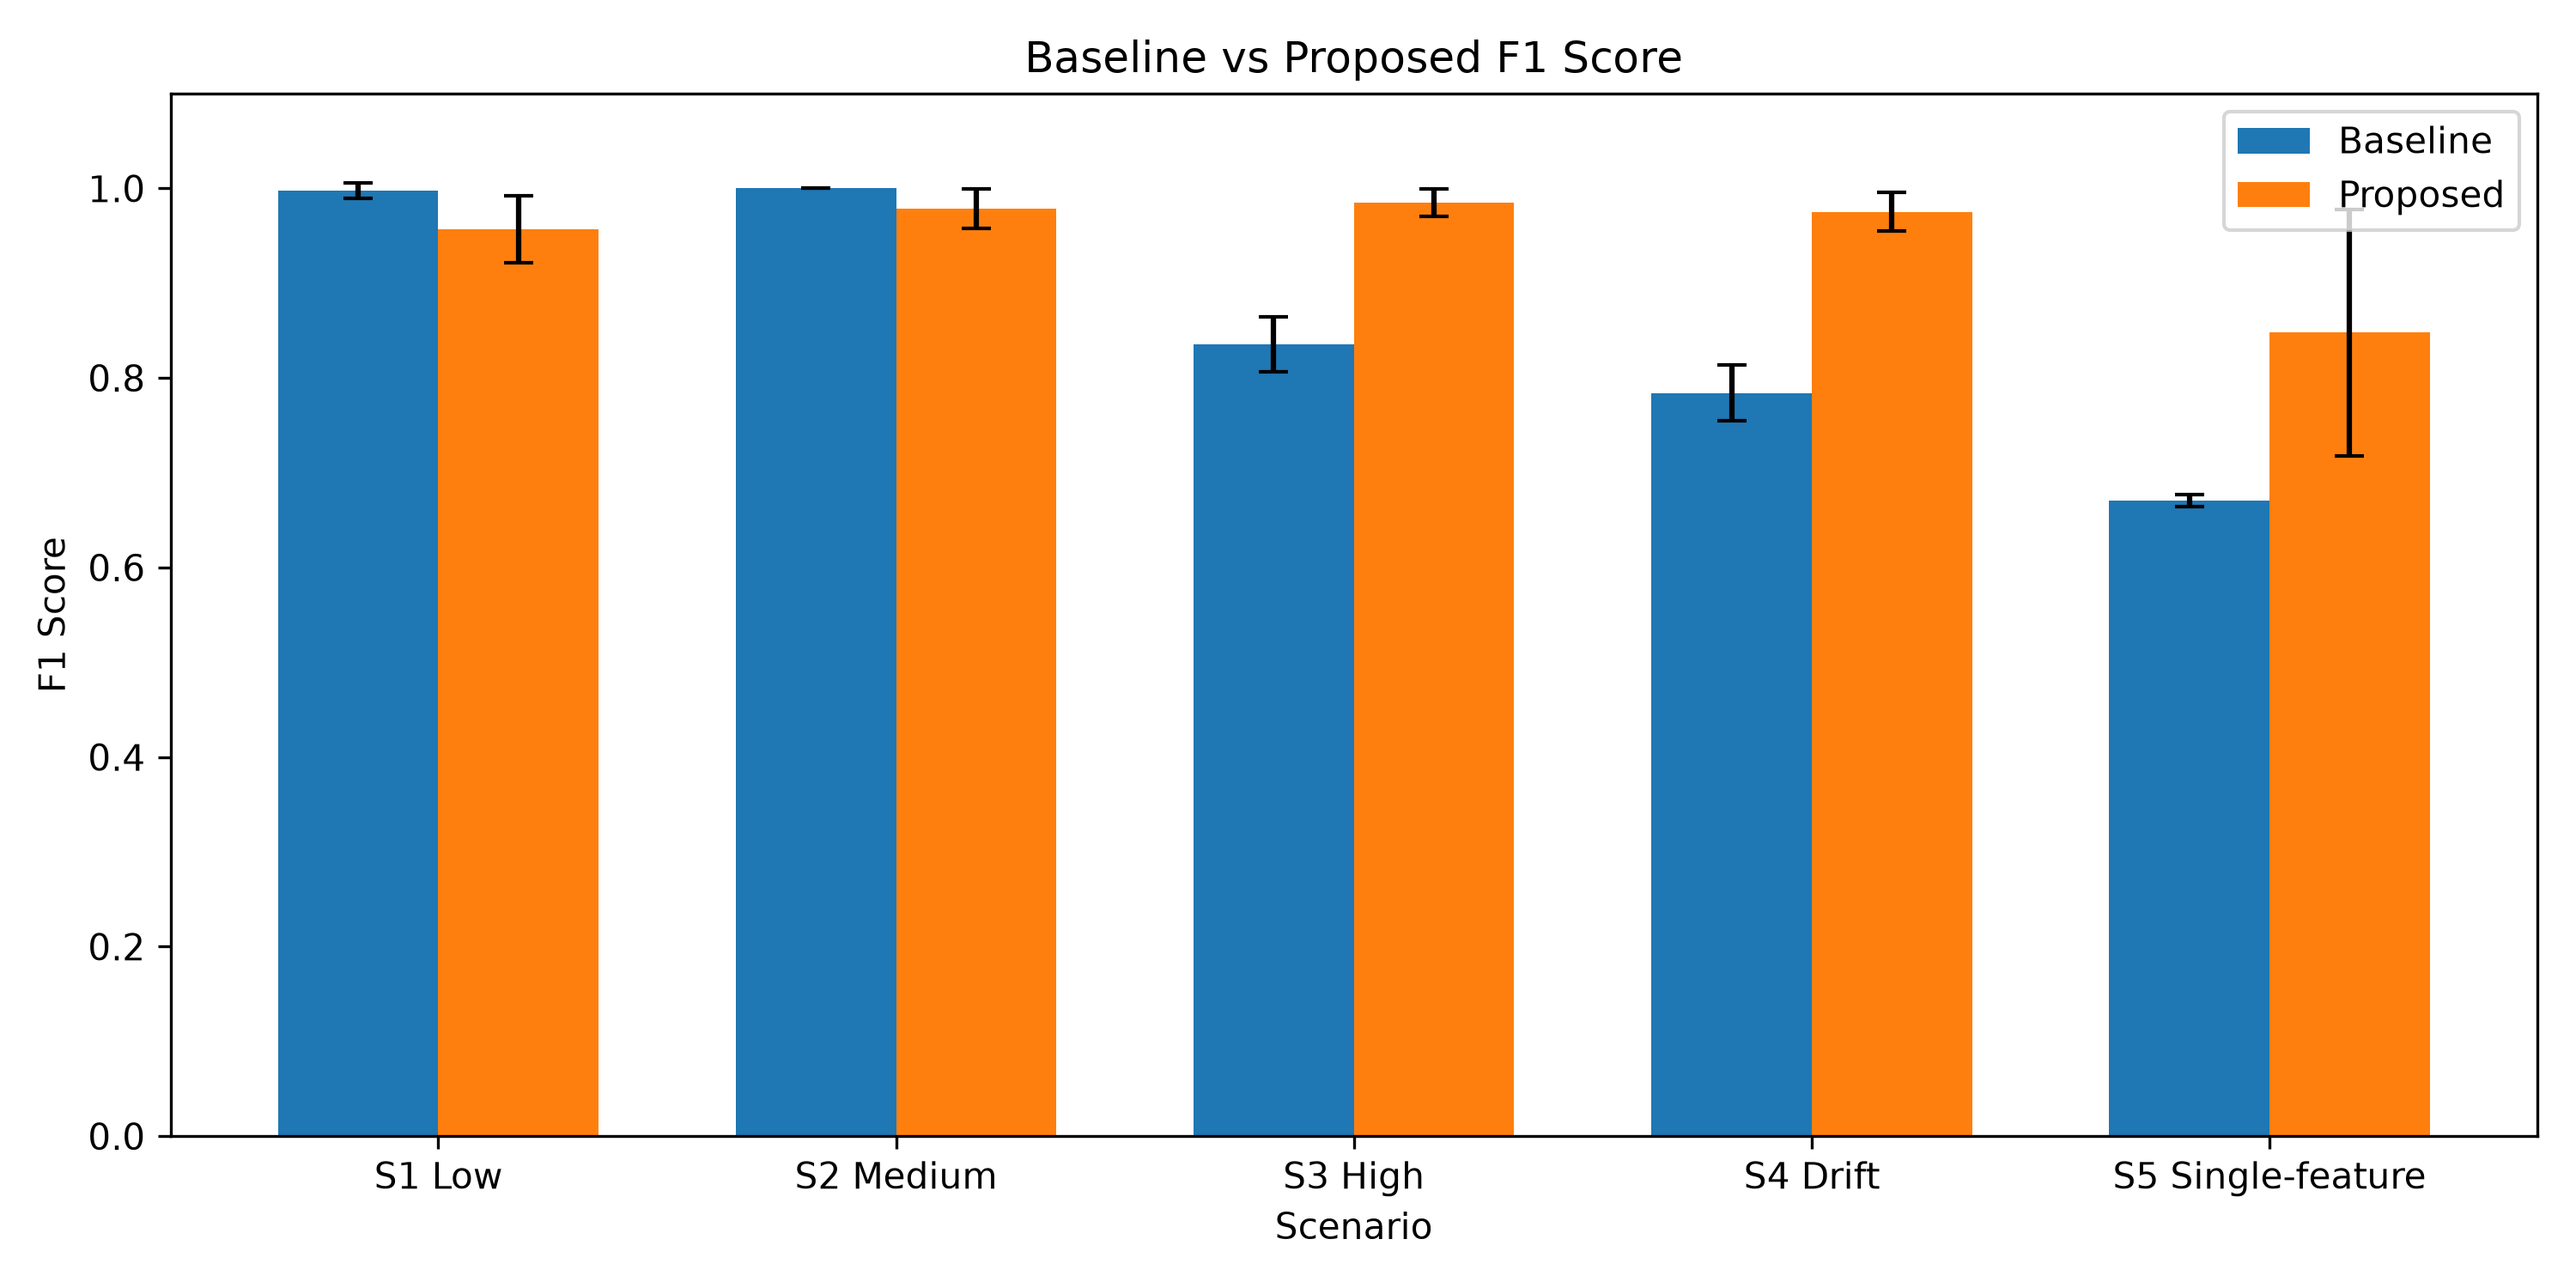
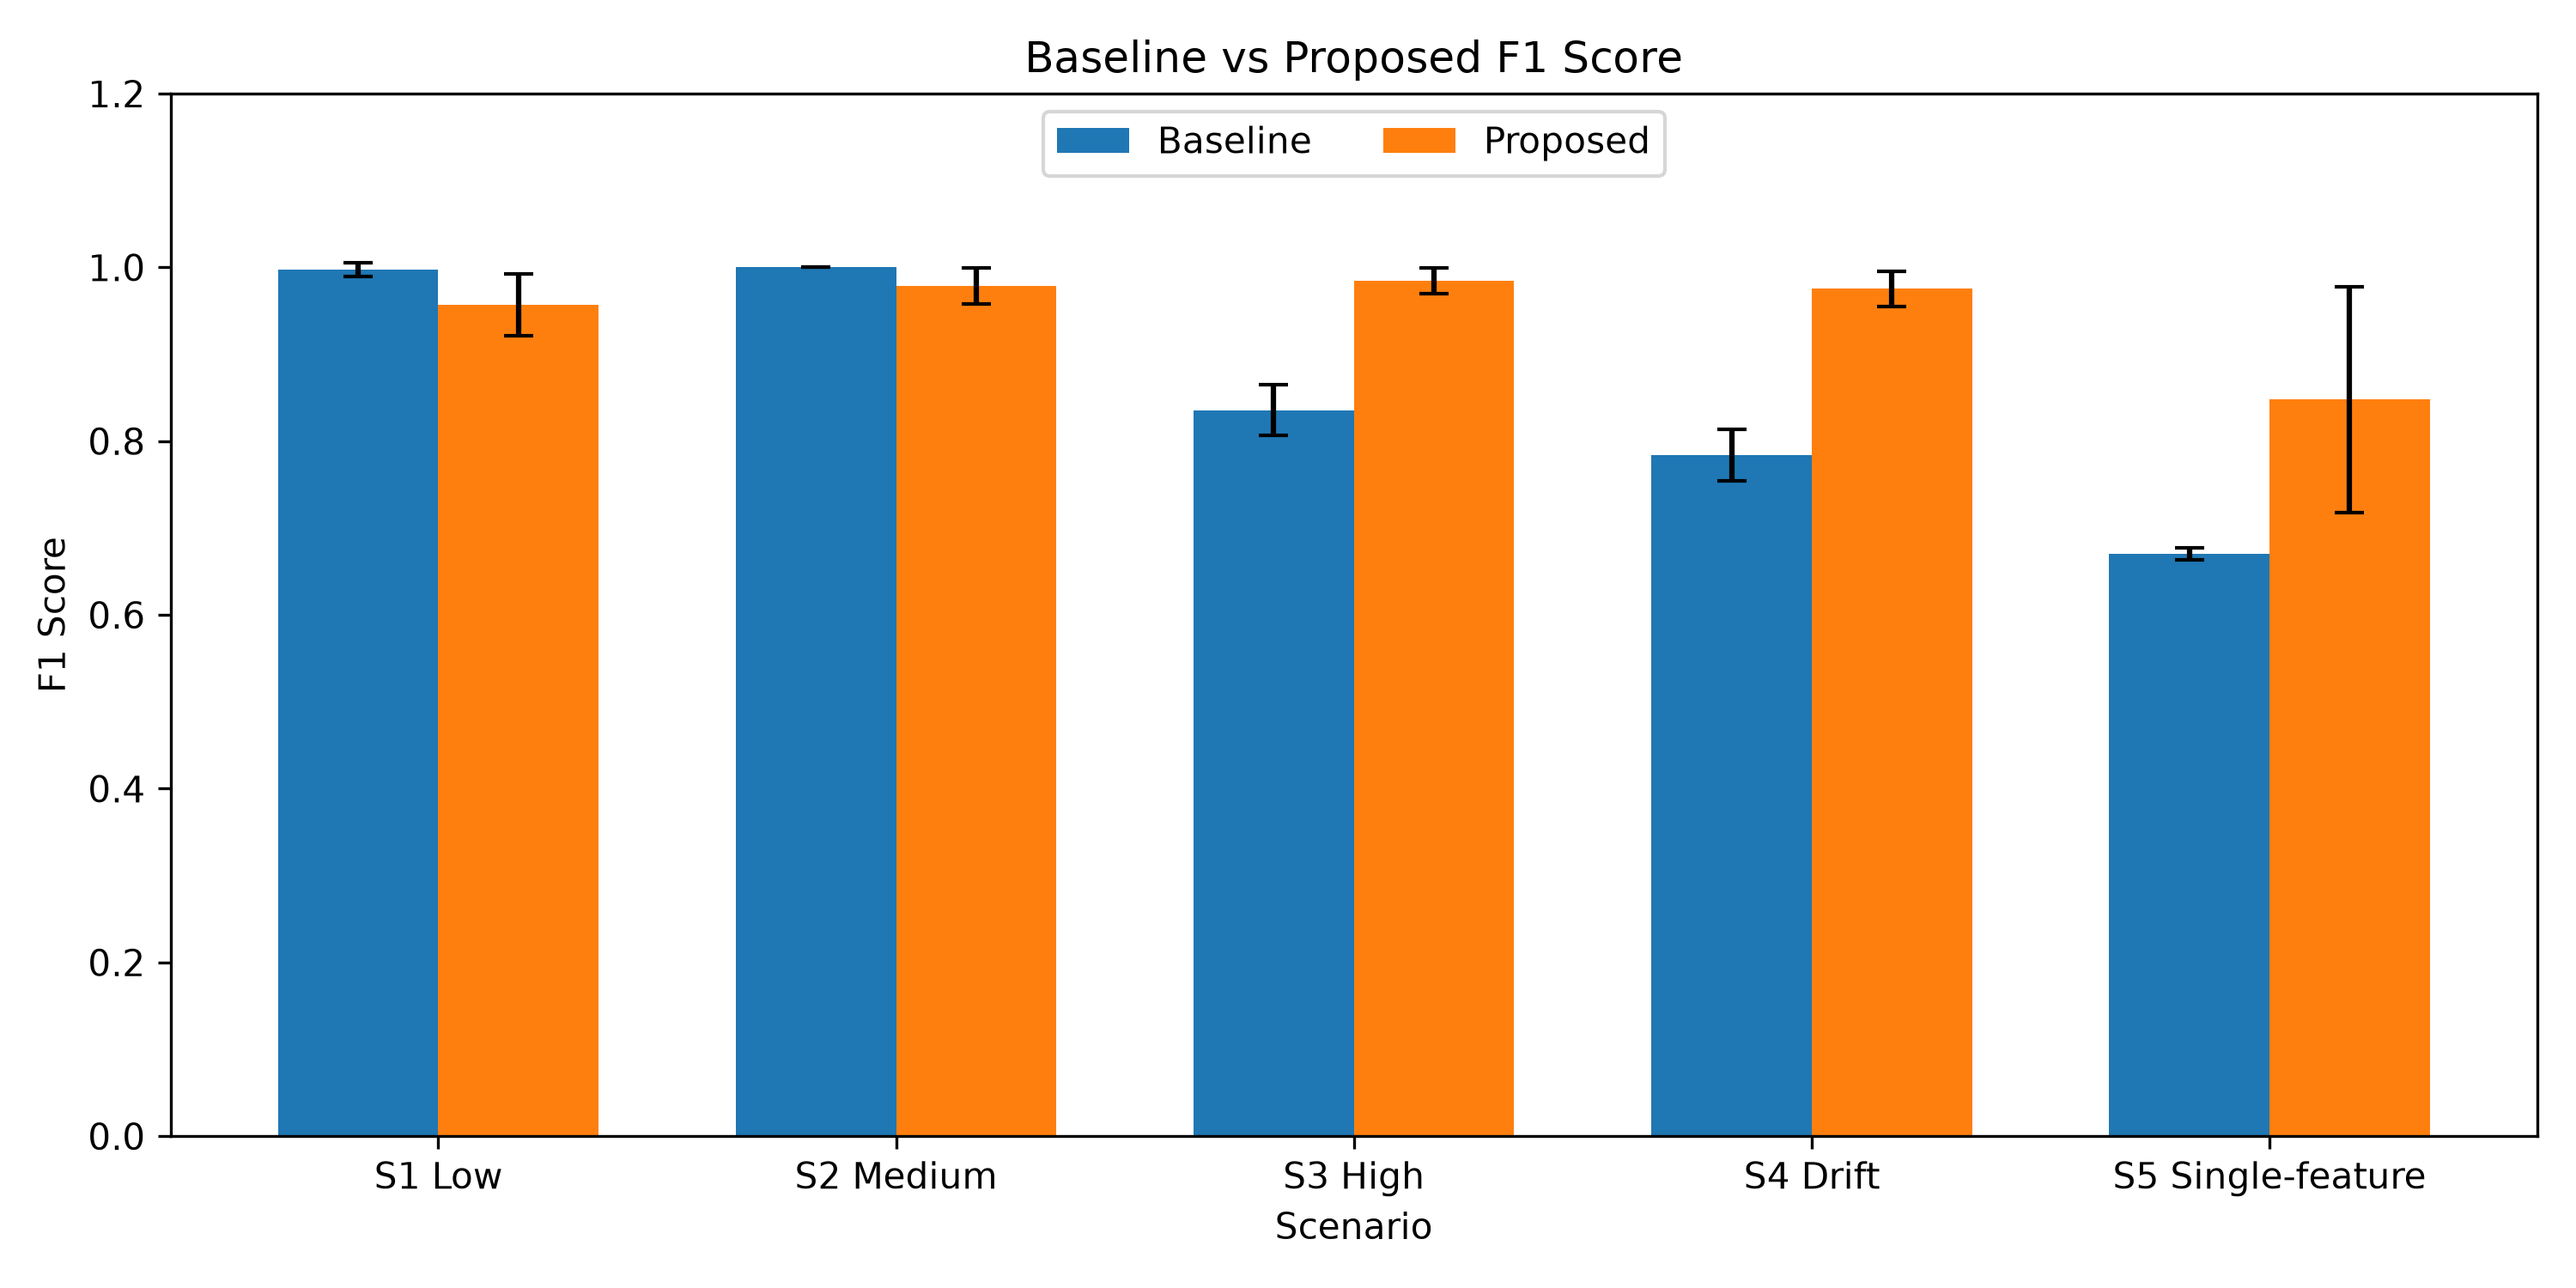
Improve figure layout: clearer legend and per-scenario repeated-run panels

diff --git a/make_graphs.py b/make_graphs.py
@@ -34,9 +34,9 @@ plt.bar([i + width/2 for i in x], summary["Proposed_F1_mean"],
 plt.xticks(list(x), LABELS)
 plt.ylabel("F1 Score")
 plt.xlabel("Scenario")
-plt.ylim(0, 1.1)
+plt.ylim(0, 1.2)
 plt.title("Baseline vs Proposed F1 Score")
-plt.legend()
+plt.legend(loc="upper center", ncol=2)
 plt.tight_layout()
 plt.savefig(FIGURES / "f1_comparison.png", dpi=300)
 plt.close()
@@ -56,22 +56,39 @@ plt.tight_layout()
 plt.savefig(FIGURES / "false_positive_comparison.png", dpi=300)
 plt.close()
 
-# 3. F1 across all repeated runs
-plt.figure(figsize=(12, 6))
-for scenario in SCENARIOS:
+# 3. F1 across all repeated runs (one panel per scenario)
+runs = sorted(df["Run"].unique())
+ticks = [r for r in runs if r == 1 or r % 5 == 0]
+
+fig, axes = plt.subplots(2, 3, figsize=(13, 7), sharex=True, sharey=True)
+axes = axes.flatten()
+
+for ax, scenario, label in zip(axes, SCENARIOS, LABELS):
     part = df[df["Scenario"] == scenario]
-    plt.plot(part["Run"], part["Baseline_F1"], marker="o",
-             label=f"{scenario} Baseline")
-    plt.plot(part["Run"], part["Proposed_F1"], marker="o",
-             linestyle="--", label=f"{scenario} Proposed")
-plt.xlabel("Run")
-plt.ylabel("F1 Score")
-plt.title("F1 Score Across Repeated Runs")
-plt.ylim(0, 1.05)
-plt.legend(ncol=2, fontsize=8)
-plt.tight_layout()
-plt.savefig(FIGURES / "repeated_runs_f1.png", dpi=300)
-plt.close()
+    ax.plot(part["Run"], part["Baseline_F1"], marker="o", markersize=4,
+            color="tab:blue", label="Baseline")
+    ax.plot(part["Run"], part["Proposed_F1"], marker="o", markersize=4,
+            linestyle="--", color="tab:orange", label="Proposed")
+    ax.set_title(label)
+    ax.set_ylim(0, 1.05)
+    ax.set_xticks(ticks)
+    ax.grid(alpha=0.25)
+
+# Sixth panel holds the legend
+axes[5].axis("off")
+handles, labels = axes[0].get_legend_handles_labels()
+axes[5].legend(handles, labels, loc="center", fontsize=12)
+
+for ax in axes[2:5]:
+    ax.set_xlabel("Run")
+    ax.tick_params(labelbottom=True)
+axes[0].set_ylabel("F1 Score")
+axes[3].set_ylabel("F1 Score")
+
+fig.suptitle("F1 Score Across Repeated Runs")
+fig.tight_layout()
+fig.savefig(FIGURES / "repeated_runs_f1.png", dpi=300)
+plt.close(fig)
 
 # Save a clean summary table
 summary.round(3).to_csv(RESULTS / "summary_results.csv")
